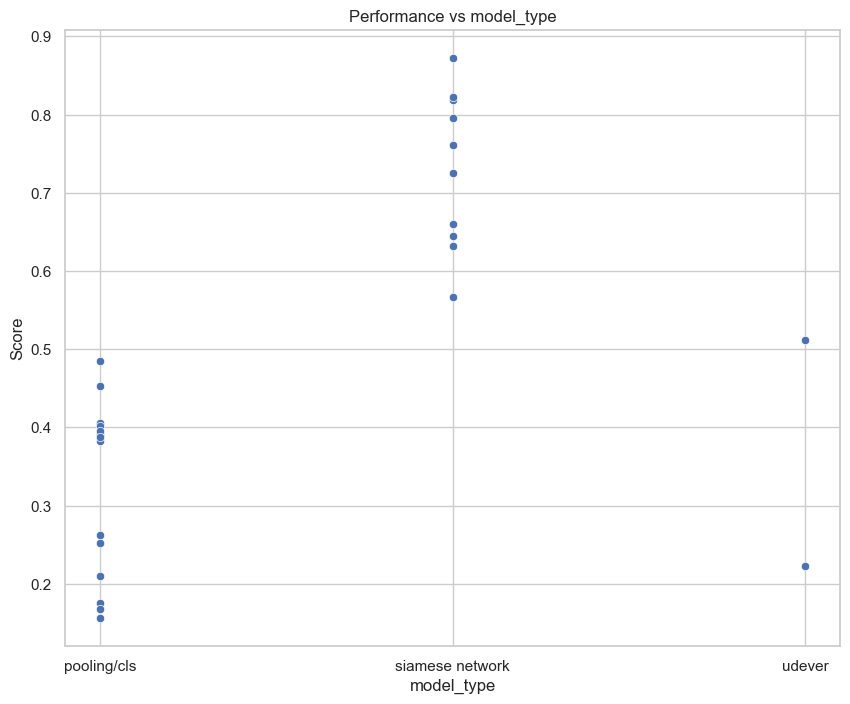
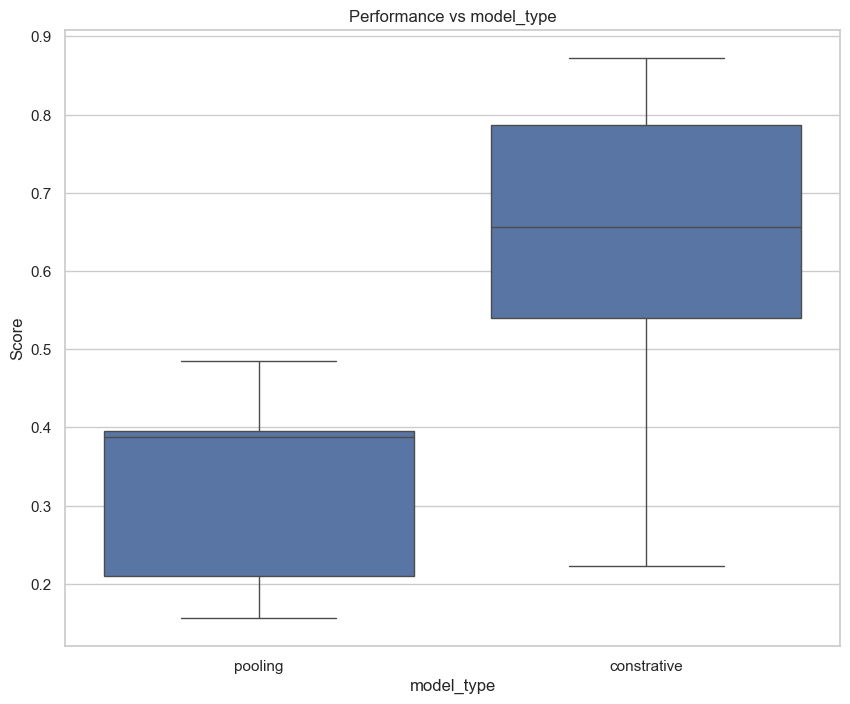
update characteristics, scripts, and figures

diff --git a/script_mteb_french/results_analysis/performance_vs_characteristics.py b/script_mteb_french/results_analysis/performance_vs_characteristics.py
@@ -8,7 +8,7 @@ from results_parser import ResultsParser
 
 # model,pretrained_or_tuned,multilingual_or_french,number_params,size_gb,seq_len,embedding_dim,model_type,license
 CHARACTERISTICS = {
-    "pretrained_or_tuned": "categorical",
+    "finetuned": "numerical",
     "multilingual_or_french": "categorical",
     "number_params": "numerical",
     "size_gb": "numerical",
@@ -16,6 +16,7 @@ CHARACTERISTICS = {
     "embedding_dim": "numerical",
     "model_type": "categorical",
     "license": "categorical",
+    "tuned_on_sentence_sim": "numerical",
 }
 
 
@@ -57,12 +58,11 @@ def global_correlation(
     data = prepare_data(results_df, characteristics_df, mode="avg")
     data = data.drop(columns=["model"])
     # get dummies for categorical variables
-    data = pd.get_dummies(data)
-    score_correlations = data.corrwith(data["score"], method="pearson")
+    data = pd.get_dummies(data, prefix='', prefix_sep='')
     # plot correlation heatmap
-    plt.figure(figsize=(10, 8))
+    plt.figure(figsize=(12, 10))
     plt.title("Correlation heatmap")
-    sns.heatmap(score_correlations.to_frame(), annot=True)
+    sns.heatmap(data.corr(method="pearson"), center=0, cmap="coolwarm")
     plt.savefig(
         os.path.join(output_path, "correlation_heatmap.png"), bbox_inches="tight"
     )
@@ -84,7 +84,7 @@ def perfomance_vs_characteristic_plot(
     plt.xlabel(target_characteristic)
     plt.ylabel("Score")
     if characteristic_type == "categorical":
-        sns.scatterplot(data=data, x=target_characteristic, y="score")
+        sns.boxplot(data=data, x=target_characteristic, y="score")
     elif characteristic_type == "numerical":
         sns.scatterplot(data=data, x=target_characteristic, y="score")
         plt.xscale("log")
@@ -111,14 +111,13 @@ if __name__ == "__main__":
     # this should not be necessary with final csv
     results_df = results_df.dropna(axis=1, how="all").dropna(axis=0, how="any")
     characteristics_df = pd.read_csv(args.characteristics_csv)
-    results_df.merge(characteristics_df, on="model", how="left")
     global_correlation(results_df, characteristics_df, args.output_folder)
     for k, v in CHARACTERISTICS.items():
         output_path = os.path.join(args.output_folder, f"perf_vs_{k}_avg.png")
         perfomance_vs_characteristic_plot(
             results_df, characteristics_df, k, v, output_path, mode="avg"
         )
-        output_path = os.path.join(args.output_folder, f"perf_vs_{k}_all.png")
-        perfomance_vs_characteristic_plot(
-            results_df, characteristics_df, k, v, output_path, mode="all"
-        )
+        # output_path = os.path.join(args.output_folder, f"perf_vs_{k}_all.png")
+        # perfomance_vs_characteristic_plot(
+        #     results_df, characteristics_df, k, v, output_path, mode="all"
+        # )
